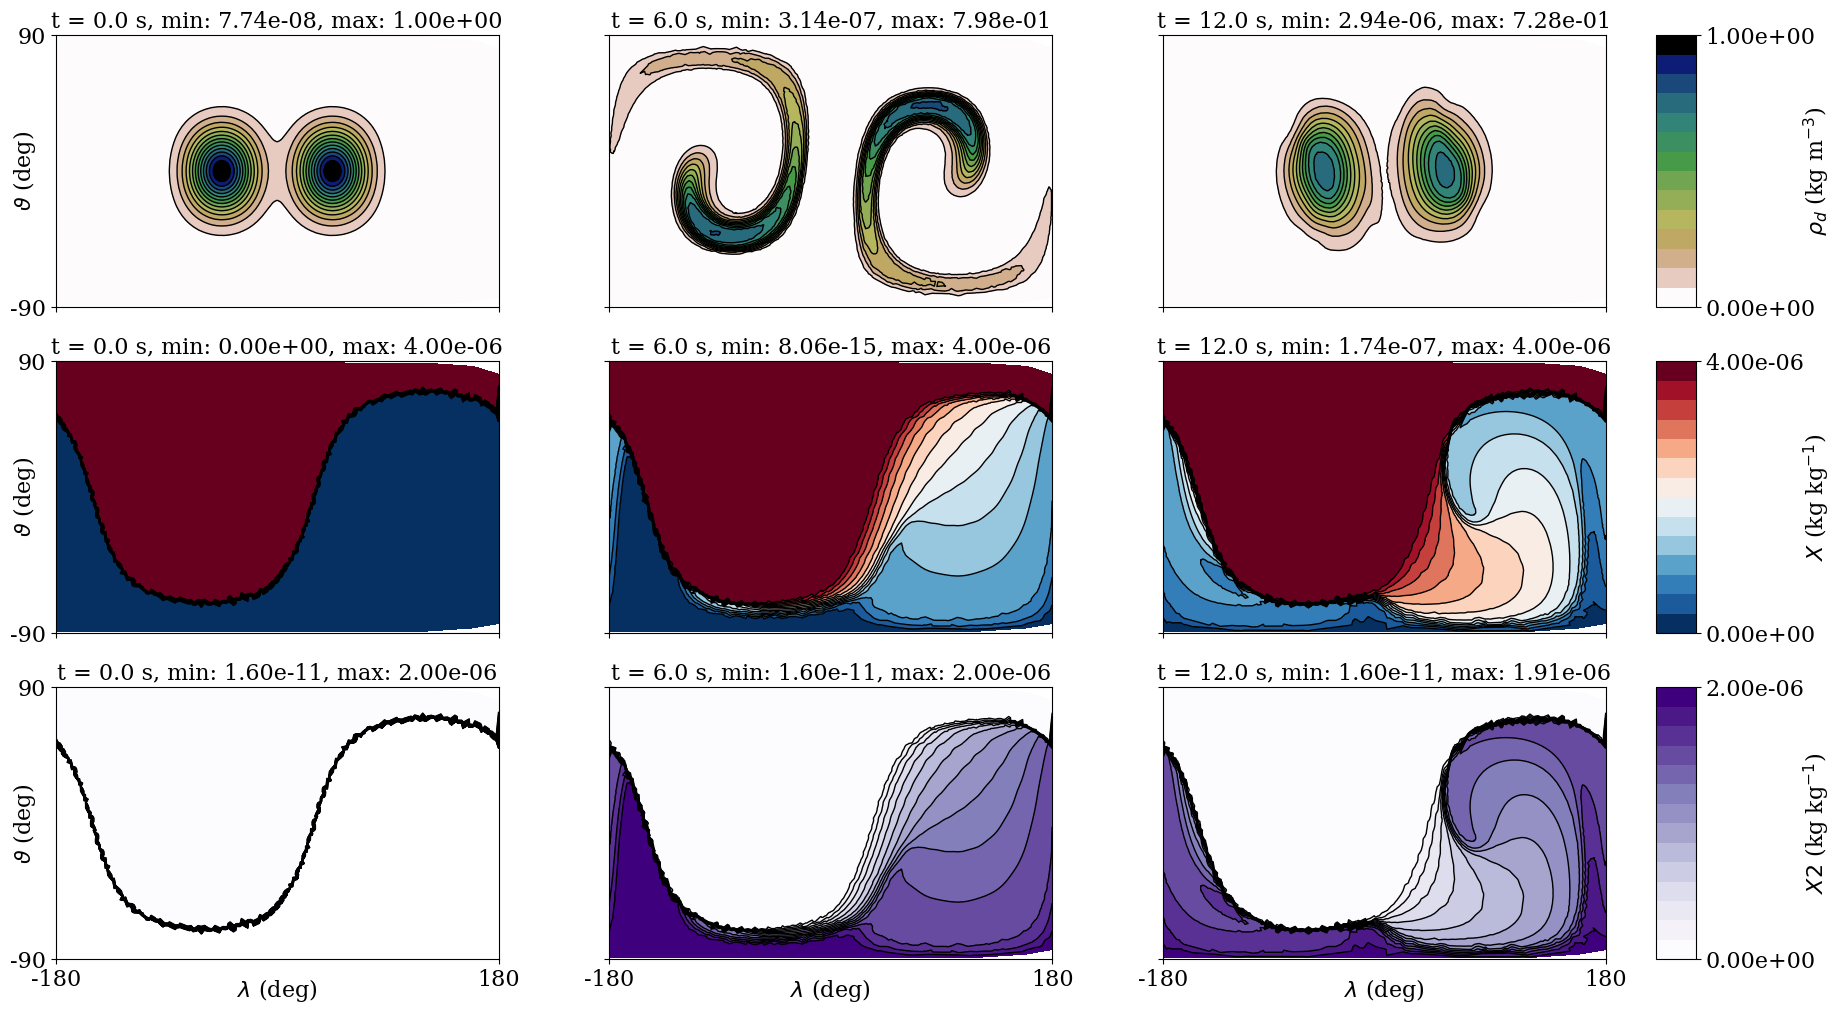
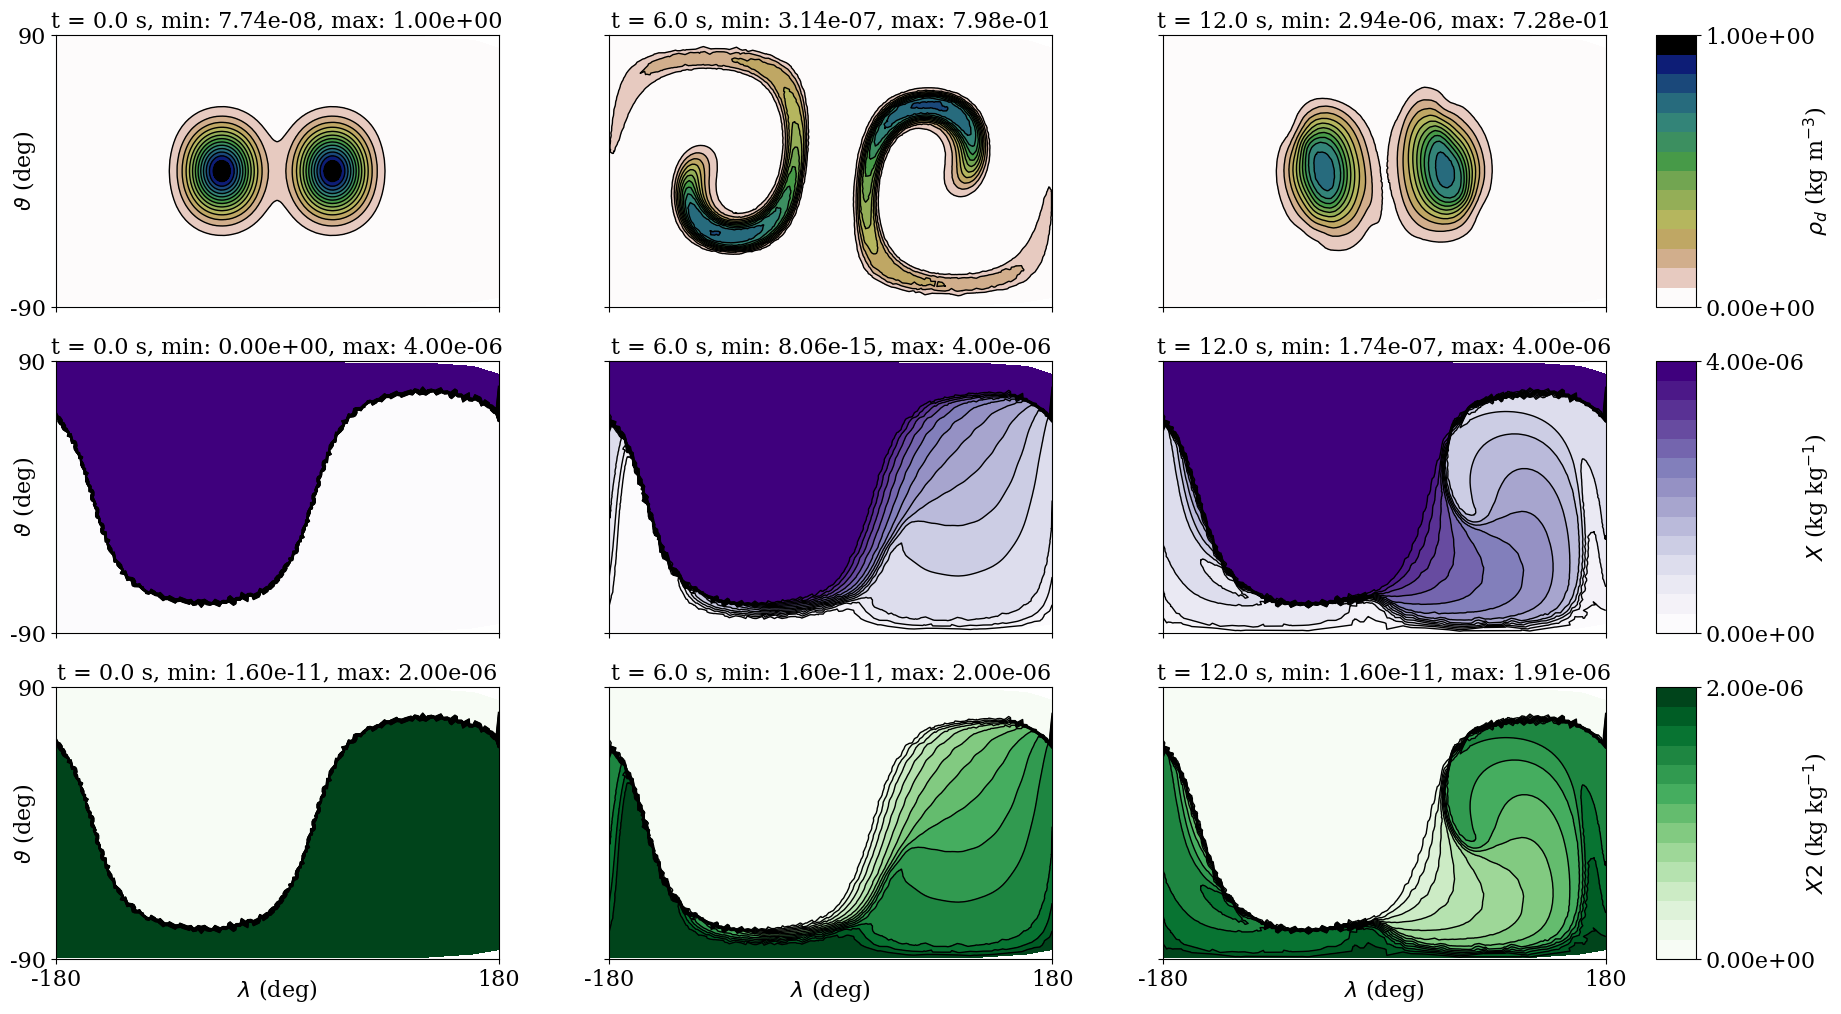
sorted out incorrect colorbar range for X2 at t=0

diff --git a/results/terminator_toy/plot_terminator_toy.py b/results/terminator_toy/plot_terminator_toy.py
@@ -17,7 +17,7 @@ from tomplot import (
     tomplot_field_title, extract_gusto_coords, extract_gusto_field
 )
 
-test = 'terminator_toy_rho_limiter_reflev4'
+test = 'terminator_toy_rf4_dt450'
 
 # ---------------------------------------------------------------------------- #
 # Directory for results and plots
@@ -46,17 +46,15 @@ cbars = [False, False, True,
 
 rho_contours = np.linspace(0.0, 1.00, 15)
 rho_colour_scheme = 'gist_earth_r'
-rho_contour_to_remove = None
 rho_field_label = r'$\rho_d$ (kg m$^{-3}$)'
 
-X_contours = np.linspace(0, 4e-6, 15)
-X_colour_scheme = 'RdBu_r'
-X_contour_to_remove = None
+X_contours = np.linspace(0.0, 4.e-6, 15)
+X_colour_scheme = 'Purples'
 X_field_label = r'$X$ (kg kg$^{-1}$)'
 
-X2_contours = np.linspace(0, 2e-6, 15)
-X2_colour_scheme = 'Purples'
-X2_contour_to_remove = None
+X2_contours_first = np.linspace(0.0, 2.000000000001e-6, 15)
+X2_contours = np.linspace(0.0, 2.0e-6, 15)
+X2_colour_scheme = 'Greens'
 X2_field_label = r'$X2$ (kg kg$^{-1}$)'
 
 contour_method = 'tricontour'
@@ -102,7 +100,10 @@ for i, (ax, time_idx, field_name, cbar) in \
         data_format = '.2e'
 
     elif field_name == 'X2':
-        contours = X2_contours
+        if time_idx == 0:
+            contours = X2_contours_first
+        else:
+            contours = X2_contours
         colour_scheme = X2_colour_scheme
         field_label = X2_field_label
         cmap, lines = tomplot_cmap(contours, colour_scheme, remove_contour=None)
